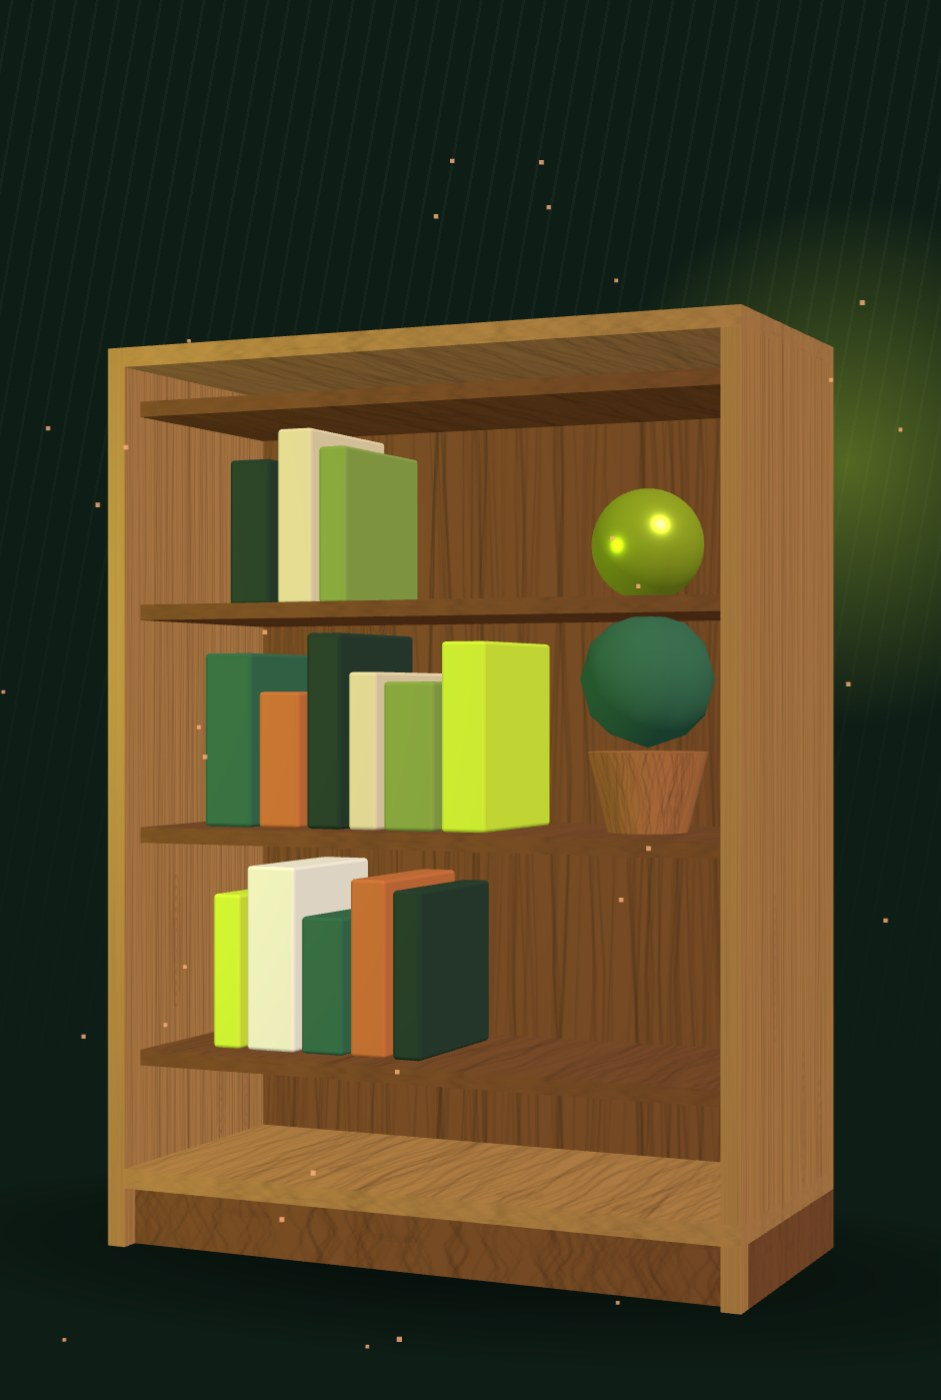
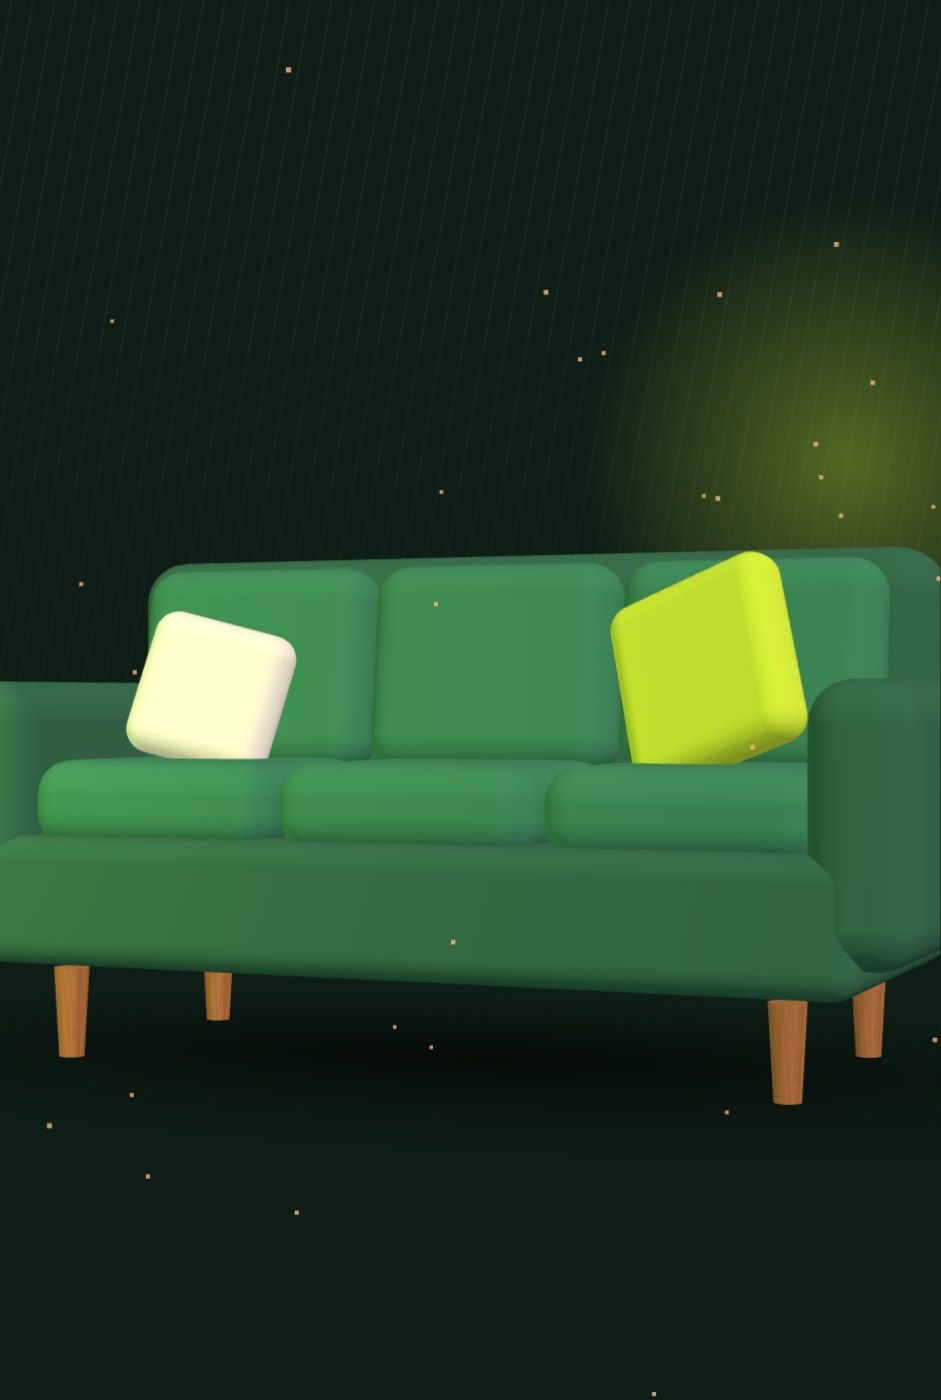
Rebuild site for Joseph Horlarmide Interior and Exterior Furniture Design Services
Real details from the Google Maps listing, new copy, 3D sofa hero, new share image and free Unsplash About photo.

Claude-Session: https://claude.ai/code/session_01F5ovSGZyLoGYEzYJhfXejX

diff --git a/assets/js/scene.js b/assets/js/scene.js
@@ -67,6 +67,7 @@ function init(host) {
 
   const rig = new THREE.Group();
   scene.add(rig);
+  rig.scale.setScalar(1.3);
 
   const W = 3.4, H = 4.6, D = 1.5, T = 0.1;
   const wood = new THREE.MeshStandardMaterial({ map: woodTexture('#b9854f', '#3f2412', 1234), roughness: 0.55, metalness: 0.02 });
@@ -81,47 +82,33 @@ function init(host) {
     return m;
   };
 
-  // Carcass
-  box(T, H, D, wood, -W / 2 + T / 2, 0, 0);          // left side
-  box(T, H, D, wood, W / 2 - T / 2, 0, 0);           // right side
-  box(W, T, D, wood, 0, H / 2 - T / 2, 0);           // top
-  box(W, T, D, wood, 0, -H / 2 + 0.35, 0);           // bottom
-  box(W, 0.3, D - 0.1, inside, 0, -H / 2 + 0.15, -0.05); // plinth
-  box(W - 2 * T, H - 0.4, 0.06, inside, 0, 0.1, -D / 2 + 0.03); // back
-  // Shelves
-  const innerW = W - 2 * T;
-  const shelfYs = [-1.35, -0.2, 0.95, 2.0];
-  shelfYs.forEach((y) => box(innerW, T * 0.8, D - 0.2, inside, 0, y, -0.05));
-  // Books
-  const cols = [0xd4f23a, 0xf4f1e8, 0x2f6b4f, 0xc9703a, 0x1c3a2c, 0xe8d9b5, 0x8aa84a];
-  const rows = [
-    { y: -1.35, h: [0.8, 0.95, 0.7, 0.9, 0.85], x0: -1.3 },
-    { y: -0.2,  h: [0.9, 0.7, 1.0, 0.8, 0.75, 0.95], x0: -1.35 },
-    { y: 0.95,  h: [0.75, 0.9, 0.8], x0: -1.2 },
-  ];
-  rows.forEach((r, ri) => {
-    let x = r.x0;
-    r.h.forEach((h, i) => {
-      const w = 0.16 + ((i * 7 + ri * 3) % 4) * 0.04;
-      const book = new THREE.Mesh(
-        new RoundedBoxGeometry(w, h, 0.85, 2, 0.02),
-        new THREE.MeshStandardMaterial({ color: cols[(i + ri * 2) % cols.length], roughness: 0.8 })
-      );
-      book.position.set(x + w / 2, r.y + T * 0.4 + h / 2, -0.05);
-      rig.add(book);
-      x += w + 0.04;
-    });
+  // Sofa
+  const fabric = new THREE.MeshStandardMaterial({ color: 0x2f6b4f, roughness: 0.95 });
+  const fabric2 = new THREE.MeshStandardMaterial({ color: 0x3a8a63, roughness: 0.95 });
+  const rb = (w, h, d, mat, x, y, z, r = 0.12) => {
+    const m = new THREE.Mesh(new RoundedBoxGeometry(w, h, d, 4, r), mat);
+    m.position.set(x, y, z);
+    rig.add(m);
+    return m;
+  };
+  [[-1.45, -0.6], [1.45, -0.6], [-1.45, 0.6], [1.45, 0.6]].forEach(([x, z]) => {
+    const leg = new THREE.Mesh(new THREE.CylinderGeometry(0.07, 0.05, 0.35, 16), woodDoor);
+    leg.position.set(x, -1.75, z);
+    rig.add(leg);
   });
-  // Brass sphere, plant pot and leaves
-  const ball = new THREE.Mesh(new THREE.SphereGeometry(0.28, 32, 24), metal);
-  ball.position.set(0.95, 0.95 + T * 0.4 + 0.28, -0.05);
-  rig.add(ball);
-  const pot = new THREE.Mesh(new THREE.CylinderGeometry(0.3, 0.2, 0.4, 24), woodDoor);
-  pot.position.set(0.95, -0.2 + T * 0.4 + 0.2, -0.05);
-  rig.add(pot);
-  const leaf = new THREE.Mesh(new THREE.IcosahedronGeometry(0.34, 1), new THREE.MeshStandardMaterial({ color: 0x2f6b4f, roughness: 0.9 }));
-  leaf.position.set(0.95, -0.2 + 0.4 + 0.4, -0.05);
-  rig.add(leaf);
+  rb(3.5, 0.5, 1.6, fabric, 0, -1.3, 0.05, 0.1);              // base
+  rb(3.5, 1.35, 0.45, fabric, 0, -0.6, -0.6, 0.18);           // back
+  rb(0.4, 1.0, 1.6, fabric, -1.75, -0.95, 0.05, 0.16);        // arms
+  rb(0.4, 1.0, 1.6, fabric, 1.75, -0.95, 0.05, 0.16);
+  [-1.07, 0, 1.07].forEach((x) => {
+    rb(1.05, 0.34, 1.05, fabric2, x, -0.93, 0.2, 0.14);       // seat cushions
+    const bk = rb(1.05, 0.85, 0.3, fabric2, x, -0.4, -0.28, 0.14); // back cushions
+    bk.rotation.x = -0.12;
+  });
+  const pillow = rb(0.75, 0.75, 0.22, new THREE.MeshStandardMaterial({ color: 0xd4f23a, roughness: 0.9 }), 1.0, -0.42, 0.1, 0.1);
+  pillow.rotation.set(-0.2, -0.35, 0.25);
+  const pillow2 = rb(0.6, 0.6, 0.2, new THREE.MeshStandardMaterial({ color: 0xf4f1e8, roughness: 0.9 }), -1.1, -0.5, 0.1, 0.1);
+  pillow2.rotation.set(-0.2, 0.3, -0.2);
 
   // Floor shadow
   const sc = document.createElement('canvas');
@@ -136,7 +123,7 @@ function init(host) {
     new THREE.MeshBasicMaterial({ map: new THREE.CanvasTexture(sc), transparent: true, depthWrite: false })
   );
   shadow.rotation.x = -Math.PI / 2;
-  shadow.position.set(0, -H / 2 - 0.02, 0);
+  shadow.position.set(0, -1.93, 0);
   rig.add(shadow);
 
   // Drifting sawdust
@@ -186,13 +173,12 @@ function init(host) {
 
   function frame() {
     const t = clock.getElapsedTime();
-    ball.rotation.y = t * 0.8;
-    leaf.rotation.y = t * 0.3;
+    pillow.rotation.z = 0.25 + Math.sin(t * 1.2) * 0.05;
 
     const scrollTurn = Math.min(window.scrollY, 1400) * 0.0042;
     rig.rotation.y += ((-0.5 + scrollTurn + Math.sin(t * 0.45) * 0.14 + pointer.x * 0.22) - rig.rotation.y) * 0.08;
     rig.rotation.x += ((pointer.y * 0.06) - rig.rotation.x) * 0.05;
-    rig.position.y = Math.sin(t * 0.9) * 0.08;
+    rig.position.y = 1.25 + Math.sin(t * 0.9) * 0.08;
 
     const p = dust.geometry.attributes.position;
     for (let i = 0; i < N; i++) {

diff --git a/index.php b/index.php
@@ -18,35 +18,35 @@ $old = $result['old'] ?? [];
 
 $hasPhoto = is_file(__DIR__ . '/' . $cfg['about_photo']);
 $callUrl = 'tel:+' . $cfg['phone_intl'];
-$waUrl = 'https://wa.me/' . $cfg['phone_intl'] . '?text=' . rawurlencode('Hello Woodworld, I found your website and would like to talk about some furniture.');
+$waUrl = 'https://wa.me/' . $cfg['phone_intl'] . '?text=' . rawurlencode('Hello Joseph, I found your website and would like to talk about some furniture.');
 
 // Gallery shows only when photos exist: assets/img/gallery-1.jpg, gallery-2.jpg ...
 $gallery = glob(__DIR__ . '/assets/img/gallery-*.{jpg,jpeg,png,webp}', GLOB_BRACE) ?: [];
 sort($gallery);
 
 $services = [
-    ['Home furniture', 'Pieces made for the way your home is used, built in our workshop in Ikeja.'],
-    ['Designs you will love', 'Customers say their homes look like paradise. Tell us the look you want and we shape it.'],
-    ['Made to order', 'Share your idea, photos or sizes and we build the piece around them.'],
-    ['Carpentry work', 'Careful carpentry from a team that clients come back to again and again.'],
+    ['Sofas', 'Comfortable sofas and seating for your living room, made with attention to the finish.'],
+    ['Interior furniture', 'Furniture designed for the inside of your home, built around your space and your taste.'],
+    ['Exterior furniture', 'Furniture for outdoor areas, designed to suit the space it goes into.'],
+    ['Furniture design', 'Tell us the look you want and we design the piece with you before we build it.'],
 ];
 
 $steps = [
     ['Tell us what you need', 'Call or message us with your idea, photos or sizes.'],
-    ['Agree the design', 'We talk through the look, the wood and the price before work starts.'],
-    ['We build it', 'Our carpenters make your piece in the workshop in Ikeja.'],
+    ['Agree the design', 'We talk through the look, the materials and the price before work starts.'],
+    ['We build it', 'Your piece is made with close attention to the details.'],
     ['Hand over', 'Your furniture is finished and handed over, ready to use.'],
 ];
 
 $reviews = [
-    ['Janet D.', 'Called the service the best you could ask for and said she looks forward to working with Woodworld again.'],
-    ['Ajibola O.', 'Said the Woodworld carpenters are simply the best and plans to hire them again.'],
-    ['Olamide D.', 'Said her home now looks like paradise and that she loves the designs.'],
+    ['Anjola A.', 'Called all the work brilliant and said it is the best she has seen so far.'],
+    ['Adebayo K.', 'Loved the work and called it exceptional.'],
+    ['Emmanuel B.', 'Said he is good at everything he does.'],
 ];
 
-$good = ['Furniture manufacturer', 'Open until 6 pm', 'Ikeja, Lagos'];
-$topics = ['Home furniture', 'Made to order', 'Carpentry work', 'Something else'];
-$tape = ['Home furniture', 'Made to order', 'Carpentry', 'Ikeja workshop', 'Rated 5.0 on Google'];
+$good = ['Furniture maker', 'Closes 5 pm', 'Ifako-Ijaiye, Lagos'];
+$topics = ['Sofas', 'Interior furniture', 'Exterior furniture', 'Furniture design', 'Something else'];
+$tape = ['Sofas', 'Interior furniture', 'Exterior furniture', 'Furniture design', 'Rated 5.0 on Google'];
 
 require __DIR__ . '/includes/header.php';
 ?>
@@ -57,9 +57,9 @@ require __DIR__ . '/includes/header.php';
     <div class="container">
       <div class="row align-items-center g-5">
         <div class="col-lg-7 reveal">
-          <span class="kicker kicker-light"><?= e($cfg['city']) ?> &middot; Ifako-Ijaiye, Ikeja</span>
-          <h1 class="mt-3">Furniture<br><em>done</em><br>properly.</h1>
-          <p class="hero-lead mt-4">Woodworld Industrial Services is a furniture manufacturer in Ikeja. Beautiful designs, built by careful carpenters for homes across Lagos.</p>
+          <span class="kicker kicker-light"><?= e($cfg['city']) ?> &middot; Ifako-Ijaiye</span>
+          <h1 class="mt-3">Furniture<br><em>designed</em><br>for you.</h1>
+          <p class="hero-lead mt-4">Interior and exterior furniture design from Ifako-Ijaiye, Lagos. Sofas and furniture made with care, for homes and outdoor spaces.</p>
           <div class="d-flex flex-wrap gap-3 mt-4">
             <a href="<?= e($waUrl) ?>" target="_blank" rel="noopener" class="btn btn-ember btn-lg">Chat on WhatsApp</a>
             <a href="<?= e($callUrl) ?>" class="btn btn-line-light btn-lg">Call <?= e($cfg['phone']) ?></a>
@@ -69,7 +69,7 @@ require __DIR__ . '/includes/header.php';
           </div>
         </div>
         <div class="col-lg-5">
-          <div id="scene" class="scene" role="img" aria-label="Animated 3D wooden bookcase that turns as you scroll"></div>
+          <div id="scene" class="scene" role="img" aria-label="Animated 3D sofa that turns as you scroll"></div>
         </div>
       </div>
     </div>
@@ -101,12 +101,12 @@ require __DIR__ . '/includes/header.php';
         </div>
         <div class="col-md-7 col-lg-8 reveal">
           <span class="kicker">About us</span>
-          <p class="statement mt-3">Good wood. <mark>Honest work.</mark></p>
-          <p class="text-ink-2 fs-5 mt-3">Woodworld Industrial Services is a furniture manufacturer on Adekoya Street in Ifako-Ijaiye, Ikeja. We make furniture for homes, and the reviews say it best: customers come back, and they love the designs.</p>
+          <p class="statement mt-3">Designed well. <mark>Made to last.</mark></p>
+          <p class="text-ink-2 fs-5 mt-3">Joseph Horlarmide Interior and Exterior Furniture Design Services is a furniture maker on Abosule Street in Ifako-Ijaiye, Lagos. We design and build sofas and furniture for the inside and outside of your home, and customers call the work brilliant and exceptional.</p>
           <ul class="stats mt-5">
             <li><strong><?= e($cfg['rating']) ?>/5</strong><span>Google rating, <?= (int)$cfg['rating_count'] ?> reviews</span></li>
-            <li><strong>Ikeja</strong><span>Workshop on Adekoya St</span></li>
-            <li><strong>6 pm</strong><span>Closing time, call first</span></li>
+            <li><strong>Ifako-Ijaiye</strong><span>12 Abosule St, Lagos</span></li>
+            <li><strong>9 am to 5 pm</strong><span>Call before you visit</span></li>
           </ul>
         </div>
       </div>
@@ -157,7 +157,7 @@ require __DIR__ . '/includes/header.php';
       <div class="reveal"><span class="kicker">Our work</span><h2 class="mt-2 mb-5">Recent pieces</h2></div>
       <div class="gallery">
         <?php foreach ($gallery as $path): ?>
-          <figure class="reveal"><img src="assets/img/<?= e(basename($path)) ?>" alt="Furniture made by Woodworld" loading="lazy"></figure>
+          <figure class="reveal"><img src="assets/img/<?= e(basename($path)) ?>" alt="Furniture by Joseph Horlarmide" loading="lazy"></figure>
         <?php endforeach; ?>
       </div>
     </div>
@@ -169,7 +169,7 @@ require __DIR__ . '/includes/header.php';
     <div class="container">
       <div class="reveal">
         <span class="kicker" style="color:var(--ink)">Reviews</span>
-        <h2 class="mt-2">Customers come back</h2>
+        <h2 class="mt-2">What customers say</h2>
         <p class="fs-5 mt-2 mb-5">Summarised from public Google reviews. <a href="<?= e($cfg['maps_url']) ?>" target="_blank" rel="noopener" style="color:var(--ink)">Read them all on Google</a>.</p>
       </div>
       <div class="row g-4">

diff --git a/includes/config.php b/includes/config.php
@@ -1,20 +1,20 @@
 <?php
 // Site settings. Edit the values below, then upload the site.
 return [
-    'name'      => 'Woodworld Industrial Services',
-    'short'     => 'Woodworld',
-    'tagline'   => 'Furniture built in Ikeja, Lagos.',
+    'name'      => 'Joseph Horlarmide Interior and Exterior Furniture Design Services',
+    'short'     => 'Joseph Horlarmide',
+    'tagline'   => 'Furniture designed for you.',
     'city'      => 'Lagos, Nigeria',
 
     // Taken from the Google Maps listing.
-    'phone'     => '0909 885 3880',
-    'phone_intl'=> '2349098853880',   // same number, international format, for call and WhatsApp links
-    'hours'     => 'Open until 6 pm. Please call to confirm before you visit.',
-    'address'   => '8 Adekoya St, off College Road, Ifako-Ijaiye, Ikeja 100001, Lagos',
-    'area'      => 'Ifako-Ijaiye, Ikeja',
+    'phone'     => '0816 125 2887',
+    'phone_intl'=> '2348161252887',   // same number, international format, for call and WhatsApp links
+    'hours'     => 'Closes 5 pm. Opens 9 am. Please call to confirm before you visit.',
+    'address'   => '12 Abosule St, Ifako-Ijaiye, Lagos',
+    'area'      => 'Ifako-Ijaiye, Lagos',
     'rating'    => '5.0',
-    'rating_count' => 11,
-    'maps_url'  => 'https://www.google.com/maps/place/Woodworld+Industrial+Services/@6.6419616,3.3274652,17z',
+    'rating_count' => 16,
+    'maps_url'  => 'https://www.google.com/maps/place/Joseph+Horlarmide+interior+and+exterior+furniture+design+services/@6.6834255,3.3039479,17z',
 
     // Optional. Leave empty to hide the email line.
     'email'     => '',
@@ -32,12 +32,12 @@ return [
     // Shown in the About section until you add your own workshop photo at assets/img/workshop.jpg.
     // Free stock photo (Unsplash License). Replace it with your own photo at any time.
     'about_photo'  => 'assets/img/workshop.jpg',
-    'about_image'  => 'https://images.unsplash.com/photo-1687422810663-c316494f725a?auto=format&fit=crop&w=1000&q=80',
-    'about_alt'    => 'A carpenter smiling as he works on a piece of wood',
-    'about_credit' => 'Photo: mkumbwajr on Unsplash',
-    'about_credit_url' => 'https://unsplash.com/photos/a-man-smiles-as-he-works-on-a-piece-of-wood-PxlKOcj0a3Q',
+    'about_image'  => 'https://images.unsplash.com/photo-1623353283172-2518d7e6f5ab?auto=format&fit=crop&w=1000&q=80',
+    'about_alt'    => 'A gray cushioned armchair beside a white wall',
+    'about_credit' => 'Photo: syahrinseth on Unsplash',
+    'about_credit_url' => 'https://unsplash.com/photos/gray-cushion-armchair-beside-white-wall-CgjBaRKroEY',
     'about_fallback' => 'assets/img/about-fallback.jpg',
 
-    'maps_lat'  => 6.6419616,
-    'maps_lng'  => 3.3274652,
+    'maps_lat'  => 6.6834255,
+    'maps_lng'  => 3.3039479,
 ];

diff --git a/includes/header.php b/includes/header.php
@@ -1,6 +1,6 @@
 <?php /** @var array $cfg */
   $shareTitle = $cfg['name'] . ' | ' . $cfg['city'];
-  $shareDesc  = 'Furniture manufacturer in Ikeja, Lagos. Beautiful designs, built by careful carpenters. Call ' . $cfg['phone'] . '.';
+  $shareDesc  = 'Interior and exterior furniture design in Ifako-Ijaiye, Lagos. Sofas and furniture made with care. Call ' . $cfg['phone'] . '.';
   $shareUrl   = $cfg['site_url'];
   $shareImg   = $cfg['site_url'] . $cfg['share_image'];
 ?>
@@ -22,7 +22,7 @@
   <meta property="og:image:type" content="image/jpeg">
   <meta property="og:image:width" content="1200">
   <meta property="og:image:height" content="630">
-  <meta property="og:image:alt" content="<?= e($cfg['name']) ?>: furniture built in Ikeja, Lagos.">
+  <meta property="og:image:alt" content="<?= e($cfg['name']) ?>: furniture designed for you.">
   <meta property="og:locale" content="en_NG">
   <meta name="twitter:card" content="summary_large_image">
   <meta name="twitter:title" content="<?= e($shareTitle) ?>">
@@ -41,9 +41,8 @@
       'telephone' => '+' . $cfg['phone_intl'],
       'address' => [
           '@type' => 'PostalAddress',
-          'streetAddress' => '8 Adekoya St, Ifako-Ijaiye',
-          'addressLocality' => 'Ikeja',
-          'postalCode' => '100001',
+          'streetAddress' => '12 Abosule St, Ifako-Ijaiye',
+          'addressLocality' => 'Lagos',
           'addressCountry' => 'NG',
       ],
       'geo' => ['@type' => 'GeoCoordinates', 'latitude' => $cfg['maps_lat'], 'longitude' => $cfg['maps_lng']],
@@ -59,7 +58,7 @@
       <span class="brand-mark" aria-hidden="true">
         <svg width="30" height="30" viewBox="0 0 32 32"><rect x="3" y="3" width="26" height="26" rx="3" fill="none" stroke="currentColor" stroke-width="3"/><path d="M16 3v26M3 16h26" stroke="currentColor" stroke-width="3"/></svg>
       </span>
-      <span class="brand-text">WOODWORLD<small>Industrial Services</small></span>
+      <span class="brand-text">JOSEPH HORLARMIDE<small>Furniture Design Services</small></span>
     </a>
     <button class="navbar-toggler border-0" type="button" data-bs-toggle="collapse" data-bs-target="#navMenu" aria-controls="navMenu" aria-expanded="false" aria-label="Toggle navigation">
       <span class="navbar-toggler-icon"></span>

diff --git a/includes/footer.php b/includes/footer.php
@@ -6,7 +6,7 @@
   </div>
 </footer>
 
-<a class="wa-float" href="https://wa.me/<?= e($cfg['phone_intl']) ?>?text=<?= rawurlencode('Hello Woodworld, I found your website and would like to talk about some furniture.') ?>" target="_blank" rel="noopener" aria-label="Message on WhatsApp">
+<a class="wa-float" href="https://wa.me/<?= e($cfg['phone_intl']) ?>?text=<?= rawurlencode('Hello Joseph, I found your website and would like to talk about some furniture.') ?>" target="_blank" rel="noopener" aria-label="Message on WhatsApp">
   <svg width="26" height="26" viewBox="0 0 24 24" fill="currentColor" aria-hidden="true"><path d="M12 2a10 10 0 0 0-8.6 15.1L2 22l5-1.3A10 10 0 1 0 12 2zm0 18.2a8.2 8.2 0 0 1-4.2-1.2l-.3-.2-3 .8.8-2.9-.2-.3A8.2 8.2 0 1 1 12 20.2zm4.5-6.1c-.2-.1-1.5-.7-1.7-.8s-.4-.1-.6.1l-.8 1c-.1.2-.3.2-.5.1a6.7 6.7 0 0 1-3.3-2.9c-.2-.4.2-.4.7-1.3.1-.1 0-.3 0-.4l-.8-1.8c-.2-.5-.4-.4-.6-.4h-.5a1 1 0 0 0-.7.3 3 3 0 0 0-.9 2.2c0 1.3.9 2.5 1 2.7s1.8 2.8 4.4 3.9c1.6.7 2.3.8 3.1.6.5-.1 1.5-.6 1.7-1.2s.2-1.1.2-1.2-.2-.2-.4-.3z"/></svg>
 </a>
 

diff --git a/README.md b/README.md
@@ -1,10 +1,10 @@
-# Woodworld Industrial Services website
+# Joseph Horlarmide Interior and Exterior Furniture Design Services website
 
-PHP 7.4+ site with Bootstrap 5.3 and a Three.js 3D bookcase in the hero.
+PHP 7.4+ site with Bootstrap 5.3 and a Three.js 3D sofa in the hero.
 
 ## Run it locally
 
-    cd woodworld-industrial
+    cd joseph-horlarmide
     php -S localhost:8000
 
 Needs an internet connection: Bootstrap, Three.js and fonts load from CDNs.
